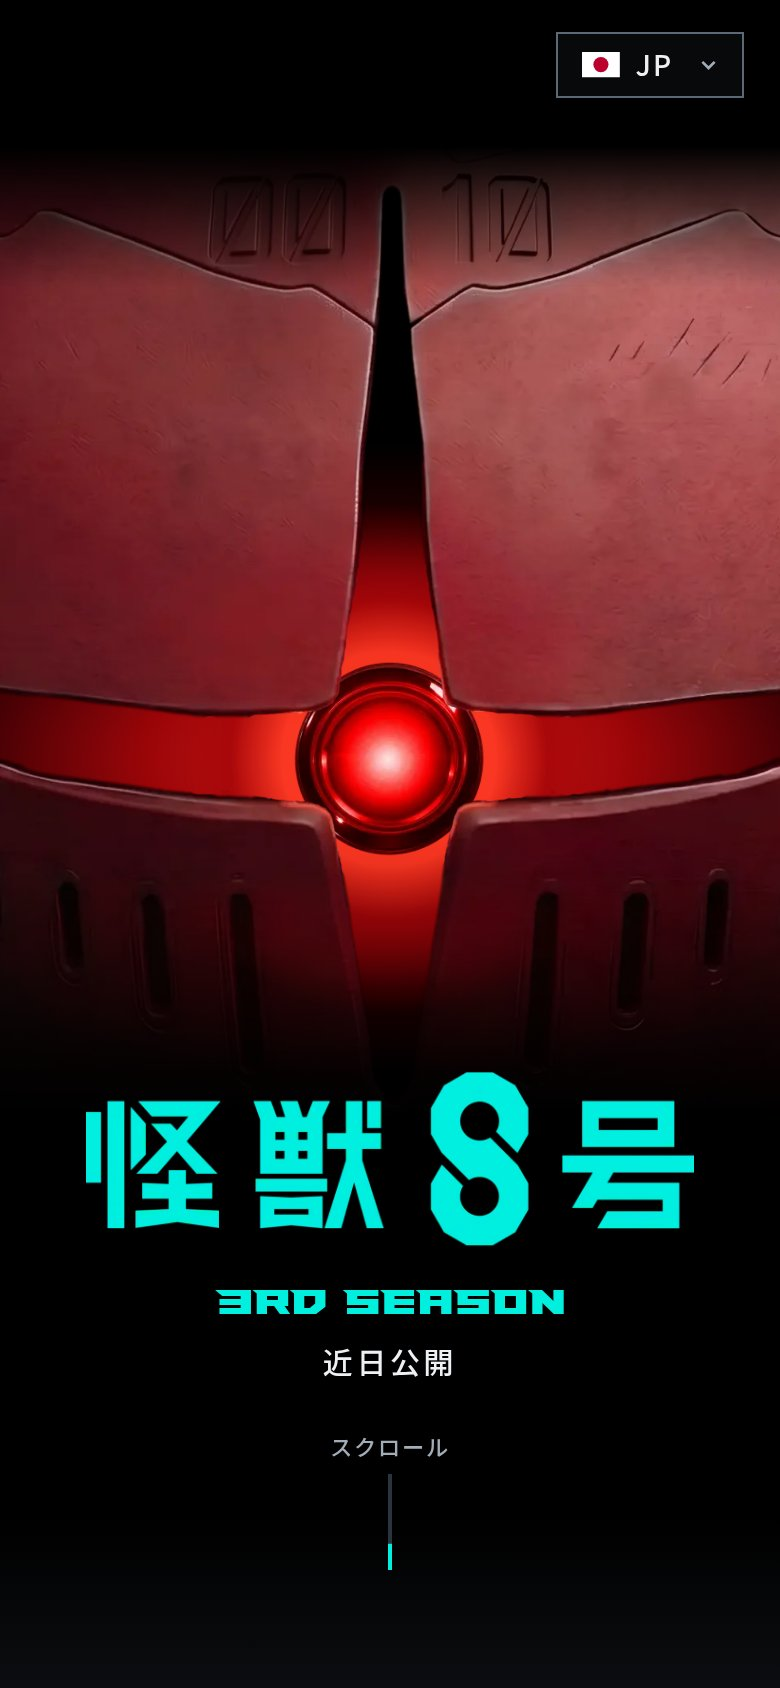
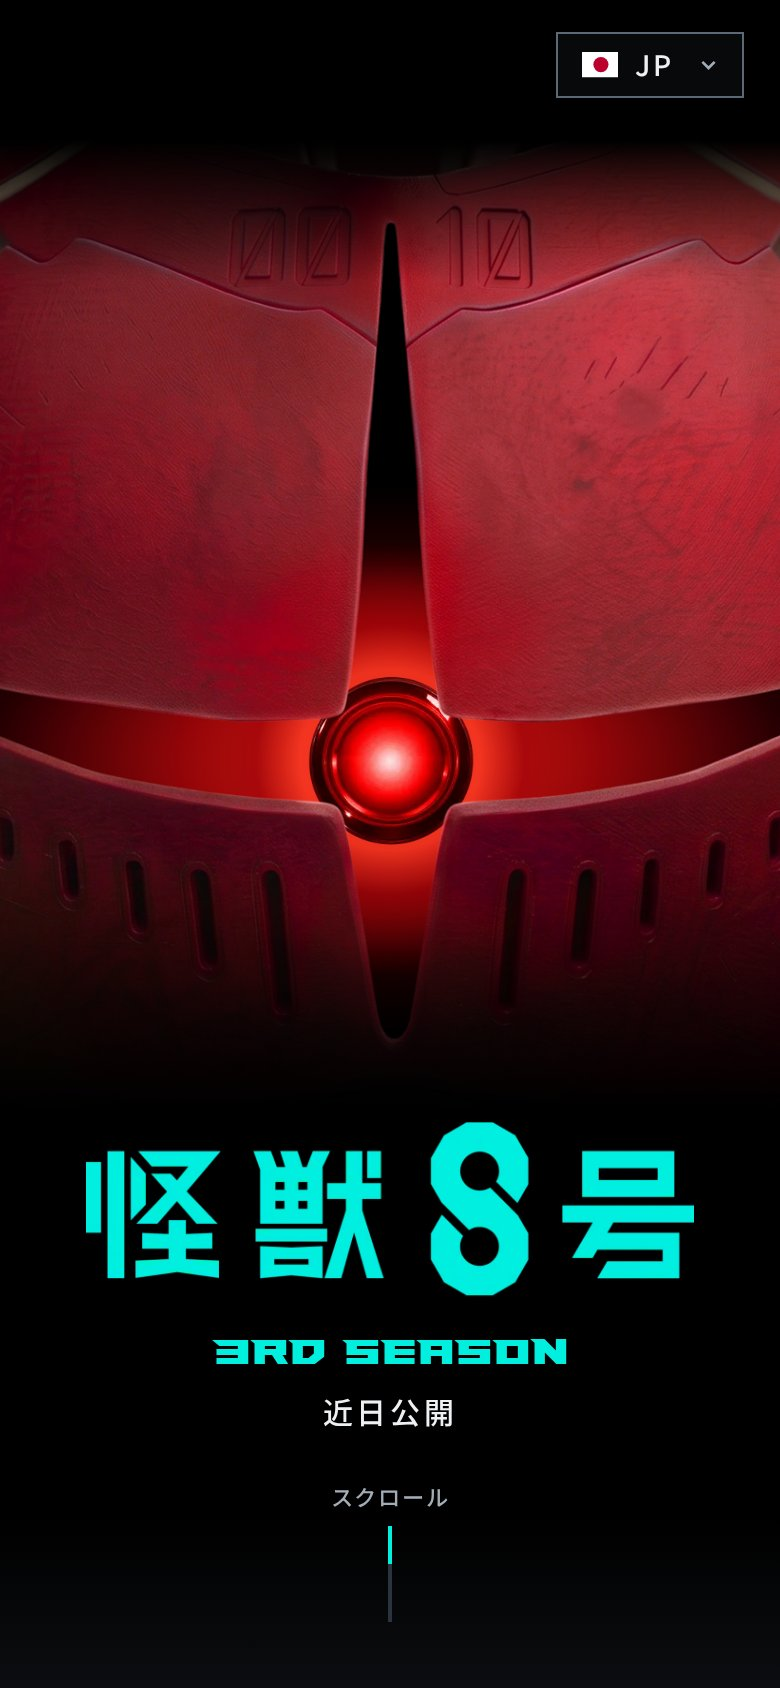
Swap the hero armor for a 16:9 cut that shows more of it
The new art (background.png, 2304x1296) frames the whole chest and the
shoulders. The socket was measured again on its alpha channel, and the
eye drops to 10.5% of the stage to keep its size against the thinner
slit. The stage width now follows the shorter side of the socket axis,
so an axis left of centre no longer leaves a black strip on the left.

The armor is encoded at webp quality 95, since the default 80 lost
detail in the red texture. ResponsiveImage takes an optional quality,
so the preload still matches the srcset. The share images, the README
screenshots and the docs are regenerated from the new art.

diff --git a/src/lib/images/hero-images.ts b/src/lib/images/hero-images.ts
@@ -1,6 +1,6 @@
 import type { ImageMetadata } from 'astro';
 
-import armor from '@/assets/images/hero/background.webp';
+import armor from '@/assets/images/hero/background.png';
 import eye from '@/assets/images/hero/eye.webp';
 import logoLatin from '@/assets/images/logo/ENLogo.webp';
 import logoJapanese from '@/assets/images/logo/JPLogo.webp';
@@ -21,14 +21,16 @@ const LOGOS = {
 } as const satisfies Record<Locale, ImageMetadata>;
 
 // Keep in sync with HeroArtwork.css, HeroEye.css and HeroLockup.css. The stage is the wider of
-// 104vw (room to centre the socket axis) and 91vh (60% of the height); the eye is 14.25% of it.
-const STAGE_SIZES = '(min-aspect-ratio: 7/8) 104vw, 91vh';
-const EYE_SIZES = '(min-aspect-ratio: 7/8) 15vw, 13vh';
+// 100vw (room to centre the socket axis) and 107vh (60% of the height); the eye is 10.5% of it.
+const STAGE_SIZES = '(min-aspect-ratio: 16/15) 100vw, 107vh';
+const EYE_SIZES = '(min-aspect-ratio: 16/15) 10.5vw, 11.2vh';
 const LOGO_SIZES = '(min-width: 35rem) 27rem, 78vw';
+// The armour fills the hero, and at the default quality (80) its red texture loses detail.
+const ARMOR_QUALITY = 95;
 
 export function getHeroImages(locale: Locale): HeroImages {
   return {
-    armor: responsiveImage(armor, [720, 1080, 1440, 1920], STAGE_SIZES),
+    armor: responsiveImage(armor, [720, 1080, 1440, 1920], STAGE_SIZES, ARMOR_QUALITY),
     eye: responsiveImage(eye, [160, 240, 320, 480, 640], EYE_SIZES),
     logo: responsiveImage(LOGOS[locale], [320, 480, 640, 864, 1080], LOGO_SIZES),
   };

diff --git a/scripts/generate-og-images.ts b/scripts/generate-og-images.ts
@@ -17,10 +17,10 @@ const DICTIONARIES = { 'pt-BR': ptBR, en, ja } satisfies Record<Locale, unknown>
 const LOGOS = { 'pt-BR': 'ENLogo.webp', en: 'ENLogo.webp', ja: 'JPLogo.webp' } as const;
 const TITLE_FONT = { family: 'Paladins Straight', file: 'paladins/paladinsstraight.woff2' };
 
-// Same measurements as HeroArtwork.css (--socket-x/y) and HeroEye.css (eye at 14.25% of the art).
-const ARMOR = { socketX: 0.5193, socketY: 0.606 };
-const STAGE_WIDTH = 1300;
-const EYE_SIZE = Math.round(STAGE_WIDTH * 0.1425);
+// Same measurements as HeroArtwork.css (--socket-x/y) and HeroEye.css (eye at 10.5% of the art).
+const ARMOR = { socketX: 0.4992, socketY: 0.6122 };
+const STAGE_WIDTH = 1500;
+const EYE_SIZE = Math.round(STAGE_WIDTH * 0.105);
 const SOCKET = { x: WIDTH / 2, y: 215 };
 const LOGO_WIDTH = 500;
 const SEASON_SIZE = Math.round(LOGO_WIDTH * 0.07);
@@ -69,7 +69,7 @@ function shade(): Buffer {
 }
 
 async function armor(): Promise<OverlayOptions> {
-  const file = path.join(ROOT, 'src/assets/images/hero/background.webp');
+  const file = path.join(ROOT, 'src/assets/images/hero/background.png');
   const { width, height } = await sharp(file).metadata();
   const stageHeight = Math.round((STAGE_WIDTH * height) / width);
   const left = Math.round(SOCKET.x - ARMOR.socketX * STAGE_WIDTH);

diff --git a/src/components/hero/HeroArtwork/HeroArtwork.css b/src/components/hero/HeroArtwork/HeroArtwork.css
@@ -10,17 +10,18 @@
   }
 
   .hero-artwork__stage {
-    /* Measured on background.webp: aspect ratio and the centre of the cross-shaped socket. */
-    --artwork-aspect: 1.5142;
-    --socket-x: 0.5193;
-    --socket-y: 0.606;
+    /* Measured on background.png: aspect ratio and the centre of the cross-shaped socket. */
+    --artwork-aspect: 1.7778;
+    --socket-x: 0.4992;
+    --socket-y: 0.6122;
     --socket-target: 0.5;
     --min-fill: 0.6;
 
-    /* As little zoom as possible: wide enough to put the socket axis on the centre line, and at
-       least --min-fill of the height tall. Keep in sync with STAGE_SIZES in hero-images.ts. */
+    /* As little zoom as possible: wide enough for the shorter side of the socket axis to reach the
+       edge when the axis sits on the centre line, and at least --min-fill of the height tall.
+       Keep in sync with STAGE_SIZES in hero-images.ts. */
     --stage-inline: max(
-      100cqi / (2 * (1 - var(--socket-x))),
+      100cqi / (2 * min(var(--socket-x), 1 - var(--socket-x))),
       100cqb * var(--min-fill) * var(--artwork-aspect)
     );
     --stage-block: calc(var(--stage-inline) / var(--artwork-aspect));

diff --git a/src/lib/images/preload.ts b/src/lib/images/preload.ts
@@ -10,9 +10,9 @@ export interface ImagePreload {
 
 export function getImagePreloads(images: readonly ResponsiveImage[]): Promise<ImagePreload[]> {
   return Promise.all(
-    images.map(async ({ src, widths, sizes }) => {
-      const image = await getImage({ src, widths, sizes });
-      return { href: image.src, srcset: image.srcSet.attribute, sizes };
+    images.map(async (options) => {
+      const image = await getImage(options);
+      return { href: image.src, srcset: image.srcSet.attribute, sizes: options.sizes };
     }),
   );
 }

diff --git a/src/lib/images/responsive-image.ts b/src/lib/images/responsive-image.ts
@@ -4,13 +4,15 @@ export interface ResponsiveImage {
   src: ImageMetadata;
   widths: number[];
   sizes: string;
+  quality?: number;
 }
 
 export function responsiveImage(
   src: ImageMetadata,
   targetWidths: readonly number[],
   sizes: string,
+  quality?: number,
 ): ResponsiveImage {
   const widths = [...targetWidths.filter((width) => width < src.width), src.width];
-  return { src, widths, sizes };
+  return quality === undefined ? { src, widths, sizes } : { src, widths, sizes, quality };
 }

diff --git a/src/components/hero/HeroEye/HeroEye.css b/src/components/hero/HeroEye/HeroEye.css
@@ -2,7 +2,7 @@
 
 @layer components {
   .hero-eye {
-    --eye-size: 14.25%;
+    --eye-size: 10.5%;
 
     position: absolute;
     inset-block-start: calc(var(--socket-y) * 100%);

diff --git a/CLAUDE.md b/CLAUDE.md
@@ -278,9 +278,10 @@ mostra o tamanho antes e depois.
   `<Image>`/`<Picture>` de `astro:assets` (lazy por padrão) com `sizes` definido por imagem. O
   preloader espera toda imagem que não é lazy, então uma `eager` fora da primeira dobra atrasa a
   revelação (hoje, a foto do Kafka em Personagens).
-- Preload de imagem: descreva a imagem uma vez como `ResponsiveImage` (`src`, `widths`, `sizes`, em
-  `src/lib/images/`) e use o mesmo objeto no `<img>` e em `<ImagePreloads slot="head">`. O `getImage()`
-  gera as mesmas URLs para as mesmas opções, então o `imagesrcset` do preload bate com o `srcset`.
+- Preload de imagem: descreva a imagem uma vez como `ResponsiveImage` (`src`, `widths`, `sizes` e,
+  se precisar, `quality`, em `src/lib/images/`) e use o mesmo objeto no `<img>` e em
+  `<ImagePreloads slot="head">`. O `getImage()` gera as mesmas URLs para as mesmas opções, então o
+  `imagesrcset` do preload bate com o `srcset`.
 - Visual: overlay `--color-bg` em tela cheia (`position: fixed; inset: 0`, `--z-preloader`) com o
   `number.webp` no centro, respirando (opacidade 0,2 ↔ 1 em `--preloader-breath-duration`). A
   respiração é keyframe CSS, então roda desde o primeiro paint, antes do JS. Sem texto visível: o
@@ -333,16 +334,23 @@ mostra o tamanho antes e depois.
 
 ## Hero
 
-- A armadura (`background.webp`) fica num "palco" com a proporção da imagem, dimensionado em
-  `HeroArtwork.css` com unidades de container (`cqi`/`cqb`). As constantes `--socket-x`/`--socket-y`
-  (centro da fenda em cruz, medido no canal alfa) e `--artwork-aspect` valem só para essa imagem:
-  **se trocar a arte, meça de novo**. O olho é posicionado em porcentagem do palco, então acompanha
-  o soquete em qualquer tela.
-- O palco usa o menor zoom possível: largura de `100cqi / (2 × (1 − socket-x))` (para o eixo da cruz
-  cair no centro) ou `--min-fill` da altura. Em telas altas a arte não cobre tudo e as bordas somem
-  no preto (`mask-image`). O soquete fica em `--socket-target` da altura (0,5; 0,45 em retrato).
+- A armadura (`background.png`, 2304×1296) fica num "palco" com a proporção da imagem,
+  dimensionado em `HeroArtwork.css` com unidades de container (`cqi`/`cqb`). As constantes
+  `--socket-x`/`--socket-y` (centro da fenda em cruz, medido no canal alfa) e `--artwork-aspect`
+  valem só para essa imagem: **se trocar a arte, meça de novo**. O olho é posicionado em
+  porcentagem do palco, então acompanha o soquete em qualquer tela. O tamanho dele (`--eye-size` em
+  `HeroEye.css`, 10,5% do palco) também depende da arte: cerca de 2,5× a altura do braço horizontal
+  da fenda junto ao cruzamento.
+- O palco usa o menor zoom possível: largura de `100cqi / (2 × min(socket-x, 1 − socket-x))` (para o
+  eixo da cruz cair no centro com os dois lados cobrindo a tela) ou `--min-fill` da altura. Em telas
+  altas a arte não cobre tudo e as bordas somem no preto (`mask-image`). O soquete fica em
+  `--socket-target` da altura (0,5; 0,45 em retrato). Em 16:9 o topo da arte ("00 10") sai cortado;
+  baixar o soquete para mostrá-lo encosta o olho no logo (testado com 0,54).
 - `STAGE_SIZES`, `EYE_SIZES` e `LOGO_SIZES` em `src/lib/images/hero-images.ts`
   espelham esse CSS. Ao mudar tamanhos no CSS, atualize os `sizes`.
+- A armadura sai em webp com qualidade 95 (`ARMOR_QUALITY`), e as outras imagens usam o padrão
+  (80), que perdia detalhe na textura vermelha dela. Custa peso na imagem que o preloader espera:
+  a versão de 1920 px tem ~356 KB (125 KB em q80, 560 KB em q100).
 - O `h1` é visualmente oculto (`.visually-hidden`) e o bloco visual (logo + temporada + "em breve")
   leva `aria-hidden`, para o leitor de tela não ler o título duas vezes. Em ja, "3rd Season" fica em inglês e em Paladins (`seasonLang: "en"`), e "em breve" é
   「近日公開」 em Noto Sans JP (`.hero-lockup__status:lang(ja)`).
@@ -670,7 +678,7 @@ mostra o tamanho antes e depois.
   usam `SITE.themeColor` (`#0b0d10`, igual ao `--color-bg`), não `#000`, para a barra do navegador
   e a splash emendarem na página.
 - `npm run generate-og-images` (`scripts/generate-og-images.ts`) gera `public/og/{pt-BR,en,ja}.jpg`
-  (1200×630, JPEG de ~45 KB; em PNG seriam ~440 KB, e há apps que não mostram prévia acima de
+  (1200×630, JPEG de ~50 KB; em PNG seriam ~440 KB, e há apps que não mostram prévia acima de
   ~300 KB): armadura do
   hero, luz e olho no soquete, degradê, logo do idioma (`ENLogo` em pt-BR e en, `JPLogo` em ja) e
   a temporada (`sections.hero.season`) em Paladins. As cores vêm de `tokens.css`; a posição do
@@ -799,8 +807,9 @@ publica `dist/`, que já traz o `_headers` e as 404 por idioma.
   origens, em `script-src` e `connect-src`. Sem isso, a CSP bloqueia o beacon e todo carregamento
   loga um erro no console (achado pelos testes E2E contra o site no ar). Se desligar o analytics,
   tire as duas origens.
-- Limites do plano grátis: 20.000 arquivos por deploy e 25 MiB por arquivo. Hoje: 171 arquivos,
-  12 MB no total, maior arquivo 2,1 MiB (o loop do Reno).
+- Limites do plano grátis: 20.000 arquivos por deploy e 25 MiB por arquivo. Hoje: 172 arquivos,
+  17 MB no total, maior arquivo 4,1 MiB (o PNG original da armadura do hero, que o Astro copia para
+  `_astro/` mas nenhuma página pede; o maior servido é o loop do Reno, 2,1 MiB).
 - Testar local como na Cloudflare: `npx wrangler pages dev dist` aplica o `_headers` e as 404 por
   pasta. Reinicie depois de cada build (ele só lê o `_headers` ao subir). `npm run preview` não
   aplica headers.

diff --git a/pendencies.md b/pendencies.md
@@ -46,7 +46,7 @@ Itens que dependem de decisão ou material externo. Marque `[x]` ao concluir.
 - [x] **Hero**: arte da armadura com o olho interativo, logo, "3rd Season", "em breve" e indicador
       de scroll (o logo da Crunchyroll saiu; "Onde assistir" cumpre esse papel).
 - [x] Hero: decidir se o logo da Crunchyroll vira link. (O logo saiu do hero.)
-- [x] Hero: a armadura (`assets/images/hero/background.webp`) traz "00 10" pintado na própria arte.
+- [x] Hero: a armadura (`assets/images/hero/background.png`) traz "00 10" pintado na própria arte.
       O resto do site mostra só o número ("10"); mudar a arte exige editar a imagem. Decidido: fica como está.
 - [x] Hero: o pulso do olho roda sem parar. Para WCAG 2.2.2 (pausar animação que dura mais de 5 s),
       avaliar um botão de pausa; hoje ele só para fora da tela e com reduced motion vira uma variação
